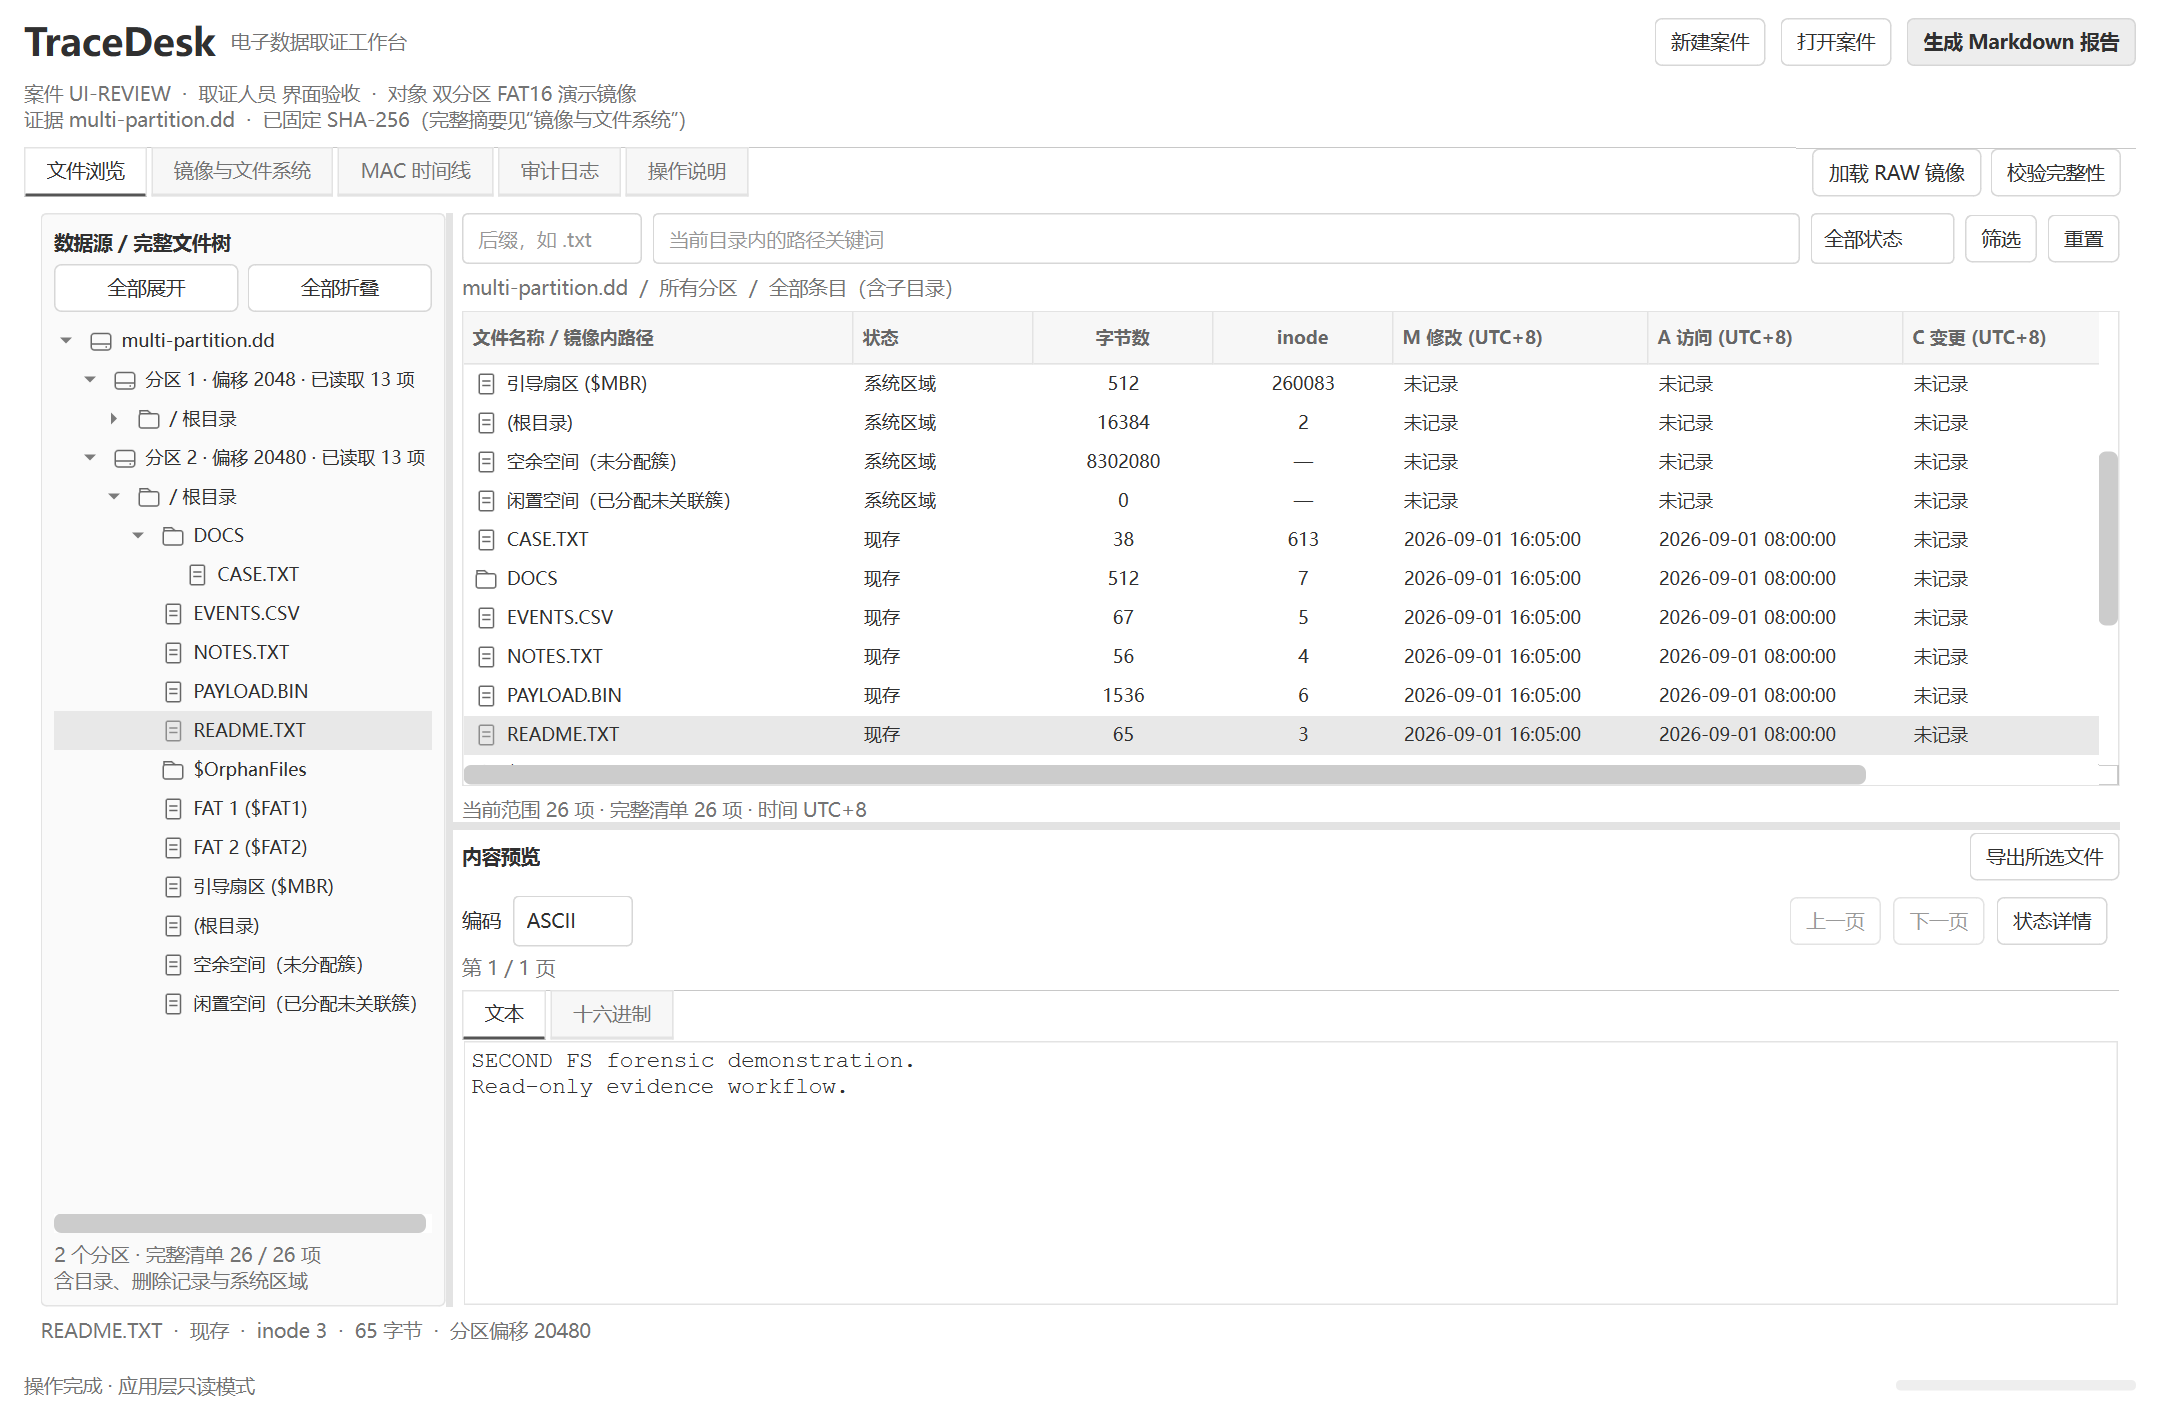
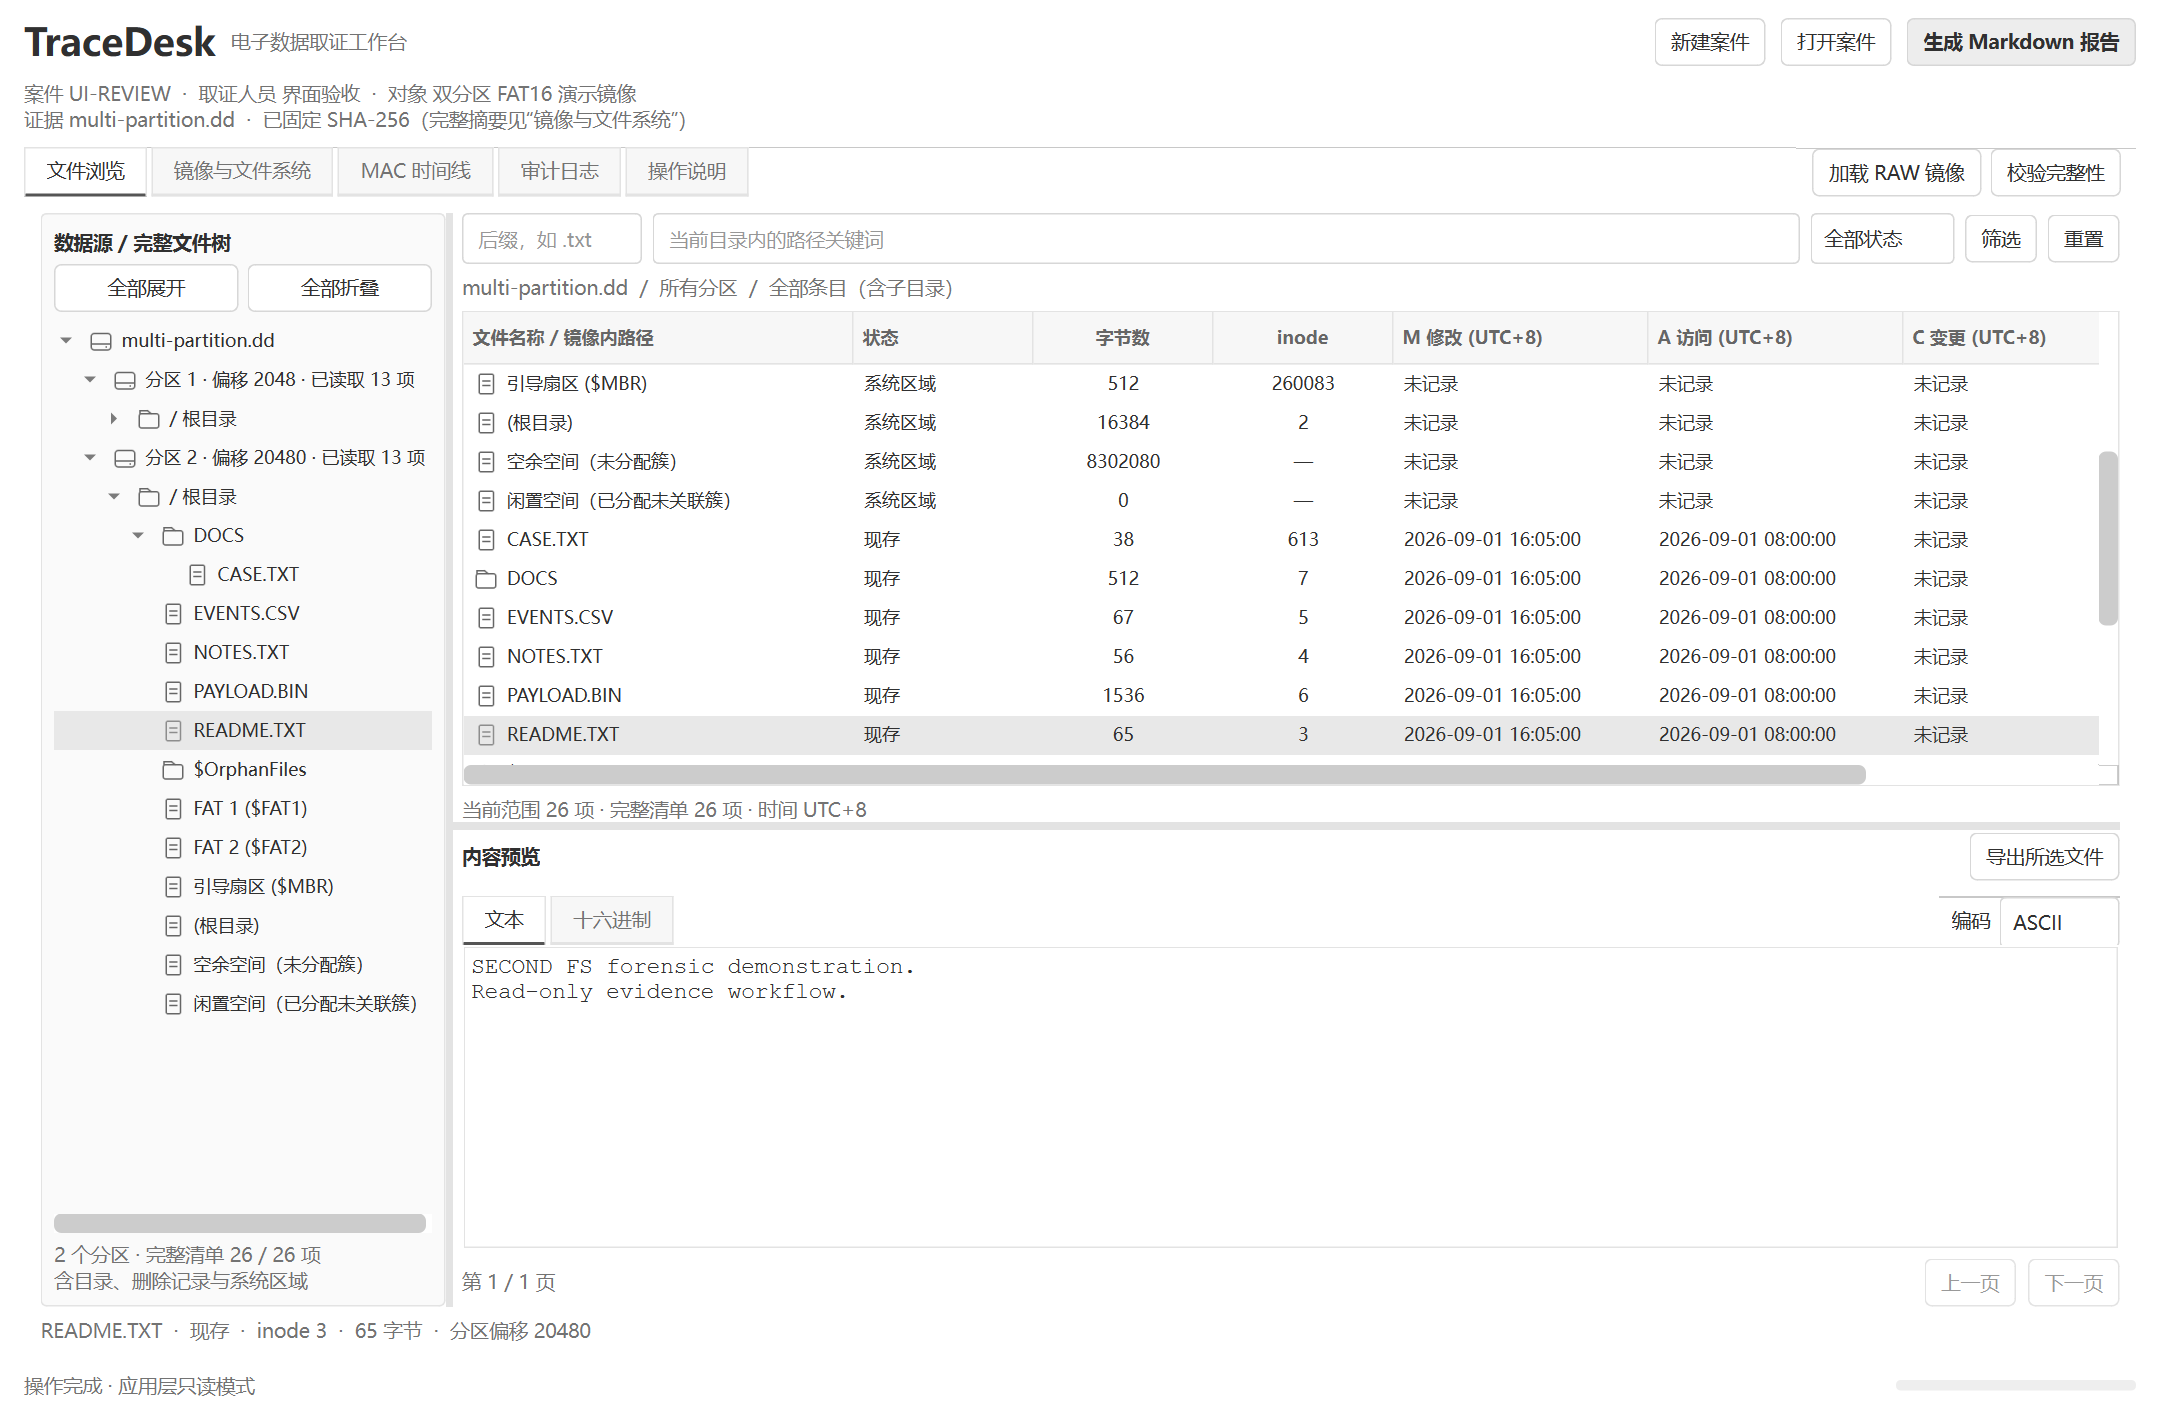
移除预览状态详情并调整编码与翻页位置

diff --git a/forensic/ui/preview.py b/forensic/ui/preview.py
@@ -10,8 +10,8 @@ from pathlib import Path
 from PySide6.QtCore import Qt
 from PySide6.QtGui import QFontDatabase, QFontMetrics
 from PySide6.QtWidgets import (
-    QAbstractItemView, QComboBox, QGridLayout, QHeaderView, QLabel,
-    QMessageBox, QPlainTextEdit, QPushButton, QSizePolicy, QTabWidget, QTreeWidget, QTreeWidgetItem,
+    QAbstractItemView, QComboBox, QHBoxLayout, QHeaderView, QLabel,
+    QPlainTextEdit, QPushButton, QSizePolicy, QTabWidget, QTreeWidget, QTreeWidgetItem,
     QVBoxLayout, QWidget,
 )
 
@@ -177,42 +177,38 @@ class FilePreview(QWidget):
         self._layout = QVBoxLayout(self)
         self._layout.setContentsMargins(0, 4, 0, 0)
         self._layout.setSpacing(6)
-        self._build_toolbar()
         self._build_rows()
+        self._build_controls()
         self.clear()
 
-    def _build_toolbar(self):
-        bar = QGridLayout()
-        bar.setContentsMargins(0, 0, 0, 0)
-        bar.setHorizontalSpacing(8)
-        bar.addWidget(QLabel('编码'), 0, 0)
+    def _build_controls(self):
+        self.encoding_controls = QWidget(self.formats)
+        encoding_layout = QHBoxLayout(self.encoding_controls)
+        encoding_layout.setContentsMargins(8, 0, 0, 0)
+        encoding_layout.setAlignment(Qt.AlignmentFlag.AlignVCenter)
+        encoding_layout.addWidget(QLabel('编码'))
         self.encoding = QComboBox()
         self.encoding.addItems(('ASCII', 'UTF-8'))
         self.encoding.currentTextChanged.connect(self.render)
-        bar.addWidget(self.encoding, 0, 1)
-        bar.setColumnStretch(2, 1)
-        self.previous = QPushButton('上一页')
-        self.previous.clicked.connect(lambda: self.turn(-1))
-        self.next = QPushButton('下一页')
-        self.next.clicked.connect(lambda: self.turn(1))
-        bar.addWidget(self.previous, 0, 3)
-        bar.addWidget(self.next, 0, 4)
-        self.status_details = QPushButton('状态详情')
-        self.status_details.setFlat(True)
-        self.status_details.clicked.connect(self._show_status)
-        bar.addWidget(self.status_details, 0, 5)
-        # 单独的弹性状态行保留完整文字，长提示不会挤走翻页控件。
+        encoding_layout.addWidget(self.encoding)
+        self.formats.setCornerWidget(self.encoding_controls, Qt.Corner.TopRightCorner)
+
+        bar = QHBoxLayout()
+        bar.setContentsMargins(0, 0, 0, 0)
+        bar.setSpacing(8)
         self.status = QLabel()
         self.status.setProperty('role', 'muted')
         self.status.setSizePolicy(QSizePolicy.Policy.Ignored, QSizePolicy.Policy.Fixed)
         self.status.setTextFormat(Qt.TextFormat.PlainText)
         self.status.setTextInteractionFlags(Qt.TextInteractionFlag.TextSelectableByMouse)
-        bar.addWidget(self.status, 1, 0, 1, 7)
+        bar.addWidget(self.status, 1)
+        self.previous = QPushButton('上一页')
+        self.previous.clicked.connect(lambda: self.turn(-1))
+        self.next = QPushButton('下一页')
+        self.next.clicked.connect(lambda: self.turn(1))
+        bar.addWidget(self.previous)
+        bar.addWidget(self.next)
         self._layout.addLayout(bar)
-
-    def _show_status(self):
-        if self.status.text():
-            QMessageBox.information(self, '文件预览状态', self.status.text())
 
     def _set_status(self, message):
         self.status.setText(message)

diff --git a/docs/ui/实施与验证.md b/docs/ui/实施与验证.md
@@ -9,6 +9,7 @@
 - 加载镜像后自动识别并读取所有分区，左侧依次显示镜像、各分区、完整目录层级及文件；删除记录和系统区域保留，不因后缀、路径或状态筛选消失。移除手动分区下拉框和“读取文件树”按钮。
 - 右上展示当前目录结果，点击左树文件会定位其父目录，双击右侧目录可进入；列表选中项会展开并定位左树。
 - 右下整行显示文本/十六进制预览，支持原有 ASCII、UTF-8、分页、部分读取提示与证据副本导出。按用户圈选移除独立文件属性侧栏，属性与时间仍可在结果列表及底部摘要查看。
+- 编码选择位于文本/十六进制标签行右侧，翻页按钮位于预览底部右侧；移除“状态详情”按钮及弹窗，页码与读取提示显示在底部左侧。
 - 左右、上下区域使用可拖动分隔条；长路径、全部时间列及预览均可滚动查看。
 - 每案固定一个镜像，清单汇总全部分区；不同分区的同名路径、同 inode 分别定位，无法读取的分区保留节点并显示原因。打开未覆盖全部分区的旧案件时自动补齐扫描。
 
